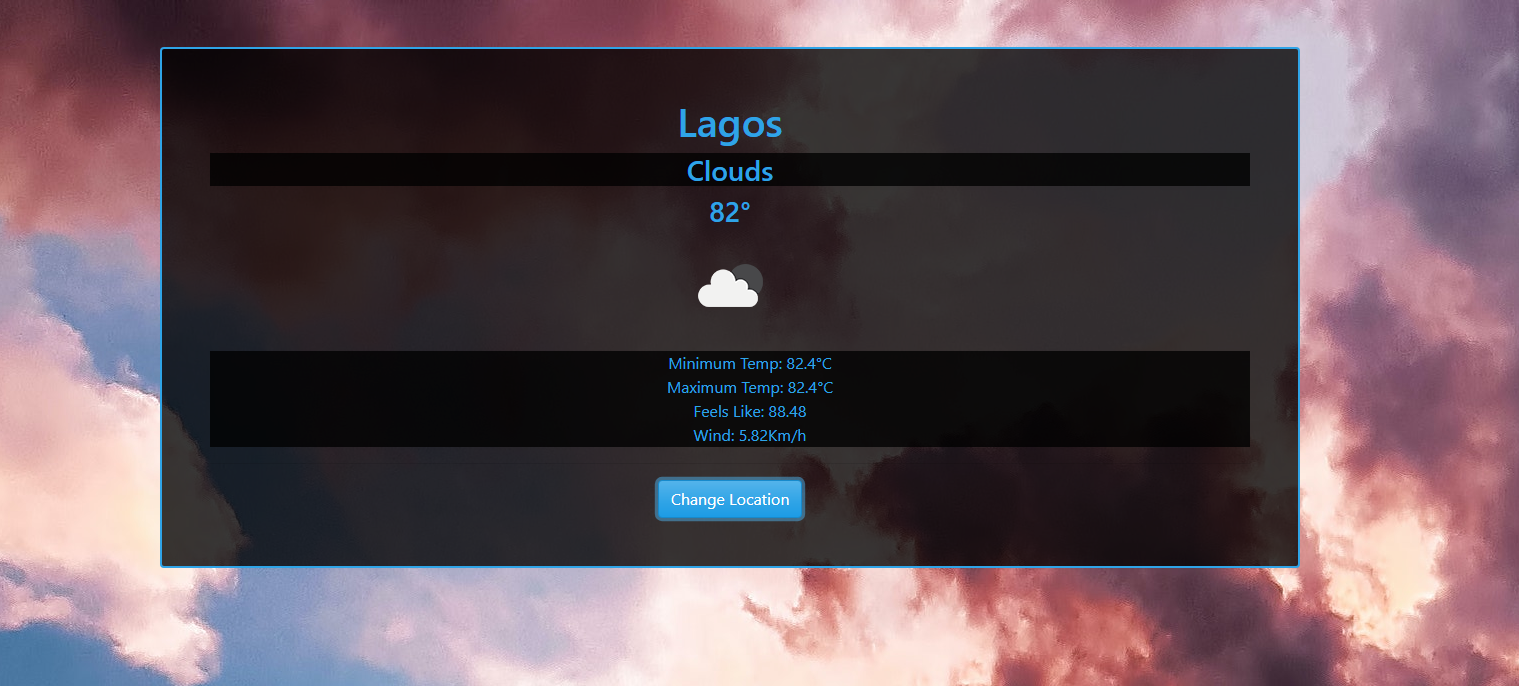
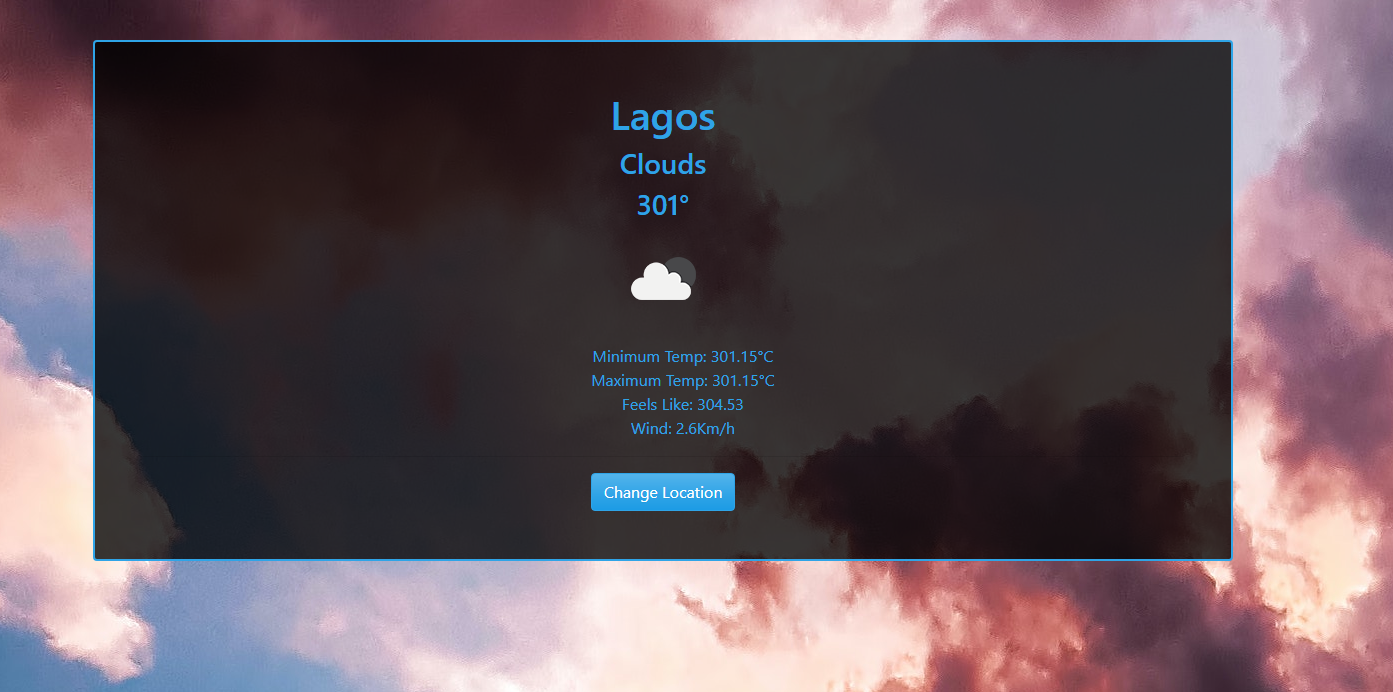
Add live demo to readme file

diff --git a/dist/index.html b/dist/index.html
@@ -12,10 +12,10 @@
     <div class="row">
       <div class="col-sm-12 mx-auto text-center bg-image mt-5 p-5 rounded bord">
         <h1 id="w-location"></h1>
-        <h3 class="bg-image" id="w-main"></h3>
+        <h3 class="" id="w-main"></h3>
         <h3 id="w-string"><span>&#xb0;</span>C</h3>
         <img id="w-icon">
-        <ul id="w-details" class="mt-3 bg-image mx-auto">
+        <ul id="w-details" class="mt-3 mx-auto">
           <li class="" id="w-temp_min"></li>
           <li class="" id="w-temp_max"></li>
           <li class="" id="w-feels-like"></li>

diff --git a/README.md b/README.md
@@ -5,7 +5,7 @@
 
 ![screenshot](./app_screenshot.PNG)
 
- View the app live [here]()
+ View the app live [here](https://taiwocoker.github.io/Weather-App/)
  
 ## Built With
 
